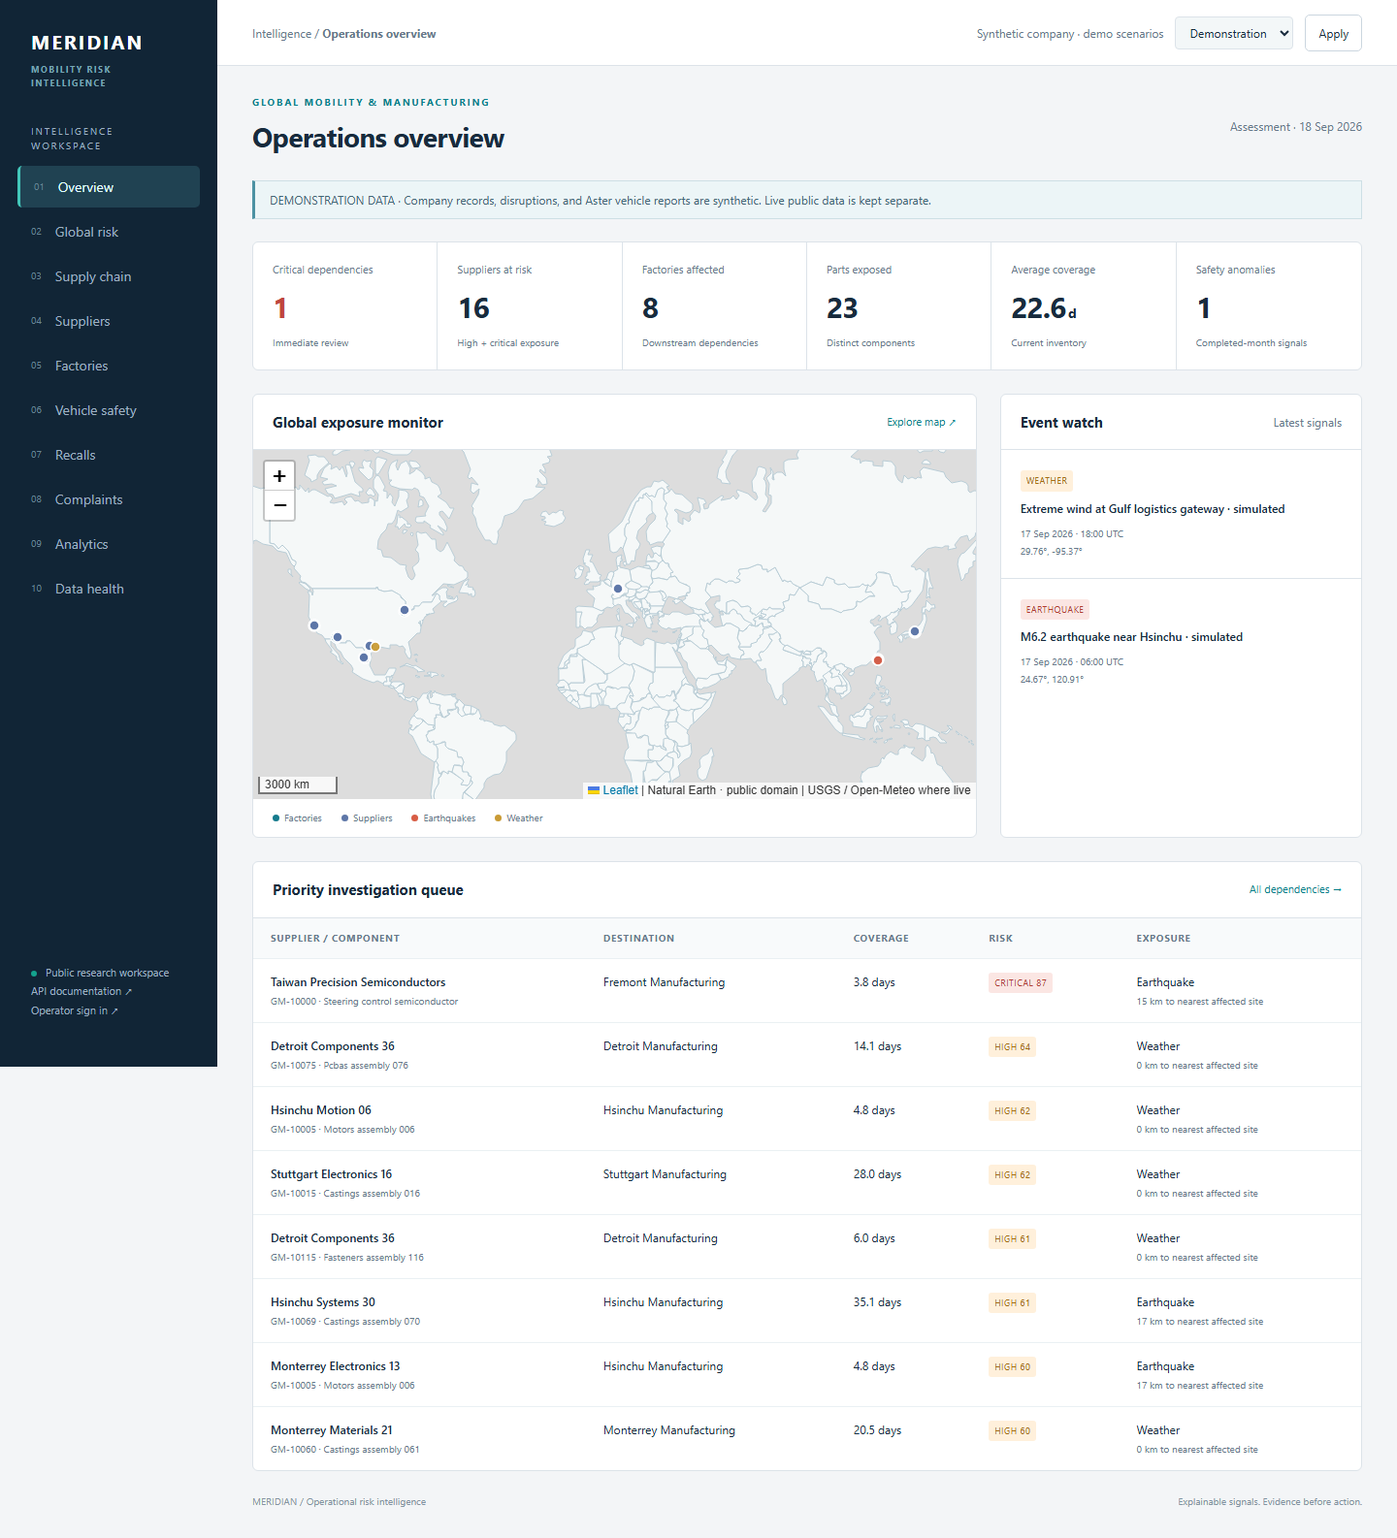
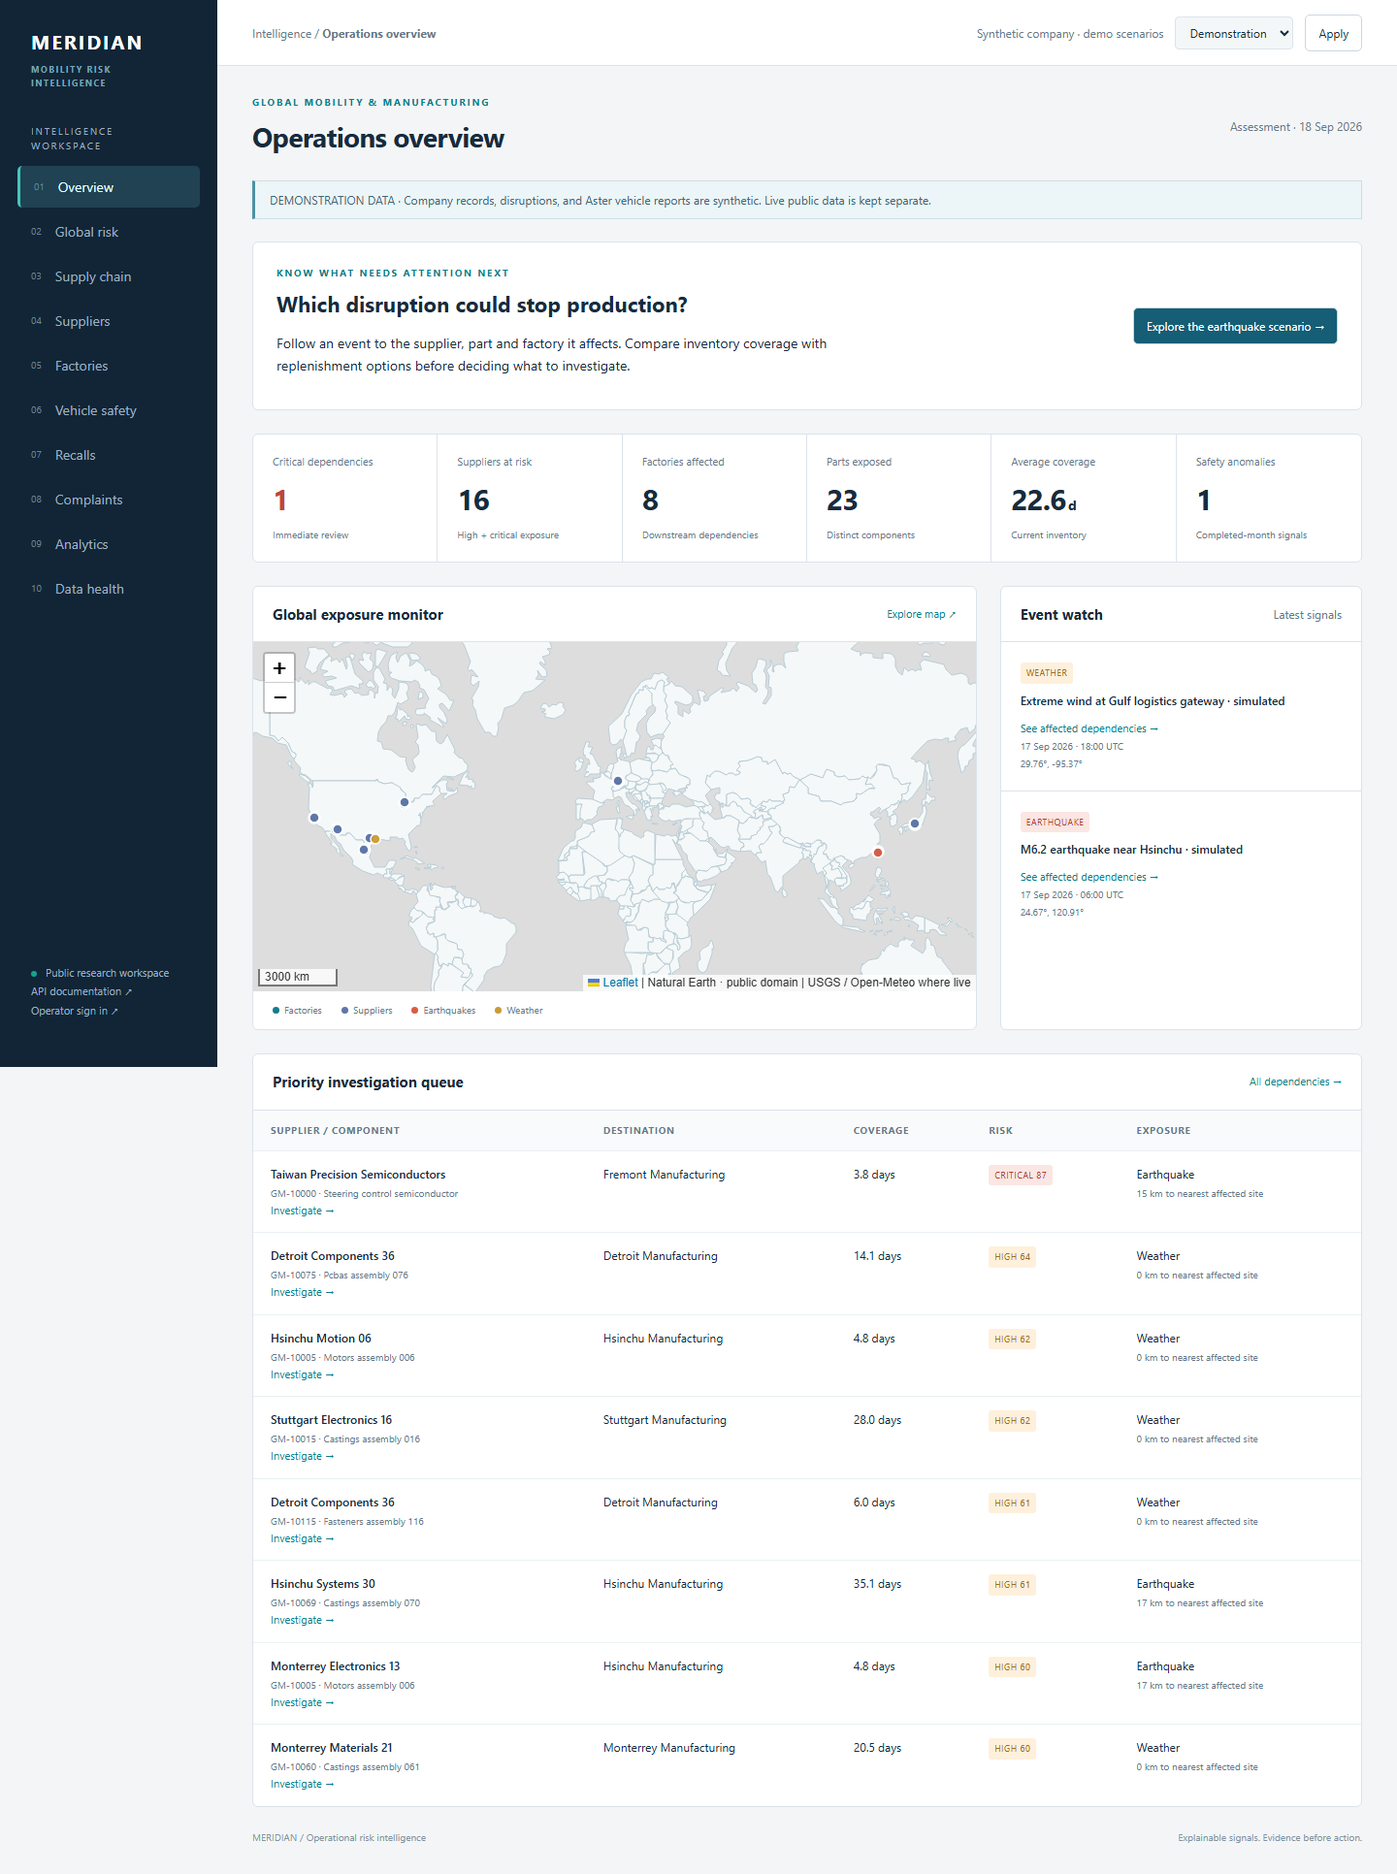
Guide risk investigations and prepare restart-safe hosted demo

diff --git a/templates/investigation.html b/templates/investigation.html
@@ -1,0 +1,111 @@
+{% extends "base.html" %}
+{% load ui %}
+{% block content %}
+    <nav class="journey" aria-label="Investigation steps">
+        <a href="#event">1. Event</a><a href="#dependency">2. Dependency</a><a href="#inventory">3. Inventory</a><a href="#options">4. Options</a>
+    </nav>
+    <section class="panel welcome">
+        <div><span class="badge {{ risk.classification }}">{{ risk.classification }} {% if risk.score != None %}{{ risk.score|floatformat:0 }}{% endif %}</span>
+            <h2>{{ risk.requirement.part.description }} at {{ risk.requirement.factory.name }}</h2>
+            <p>{{ risk.explanation }}</p>
+            <p class="subtle">Assessment: {{ risk.run.as_of|date:'d M Y H:i' }} UTC · Model {{ risk.run.model_version }}. This is a prioritization heuristic, not a damage probability. Historical assessments do not represent today's inventory.</p>
+        </div>
+    </section>
+    <div class="equal-col">
+        <section class="panel welcome" id="event">
+            <div>
+                <div class="eyebrow">1 / Evidence</div><h2>{% if risk.event %}{{ risk.event.title }}{% else %}No event linked{% endif %}</h2>
+                {% if risk.event %}<p>{{ risk.event.occurred_at|date:'d M Y H:i' }} UTC · {{ risk.event.kind|title }}</p>
+                <p class="subtle">Source: {{ risk.event.source }} · Record {{ risk.event.source_id }}. Source updated: {{ risk.event.source_updated_at|date:'d M Y H:i'|default:'Not supplied' }}.</p>
+                <p>{{ risk.distance_km|floatformat:1 }} km to the nearest affected site. Proximity indicates exposure, not confirmed damage.</p>
+                <a class="muted-link"
+                   href="/global-risk/?mode={{ mode }}&amp;event={{ risk.event_id }}">View event on map →</a>
+            {% else %}<p>This assessment reflects inventory and sourcing conditions without a linked environmental event.</p>{% endif %}
+        </div>
+    </section>
+    <section class="panel welcome" id="dependency">
+        <div>
+            <div class="eyebrow">2 / Production dependency</div>
+            <h2>{{ risk.requirement.part.number }}</h2>
+            <p><a class="muted-link"
+   href="/suppliers/{{ risk.source.site.supplier_id }}/?mode={{ mode }}">{{ risk.source.site.supplier.name }}</a> supplies {{ risk.requirement.part.description }} to <a class="muted-link"
+    href="/factories/{{ risk.requirement.factory_id }}/?mode={{ mode }}">{{ risk.requirement.factory.name }}</a>.</p>
+            <p>Current source lead time: <strong>{{ risk.source.lead_time_days }} days</strong>. Factory consumption: <strong>{{ risk.requirement.daily_usage|floatformat:0 }} units/day</strong>.</p>
+        </div>
+    </section>
+</div>
+<section class="panel welcome" id="inventory">
+    <div>
+        <div class="eyebrow">3 / Time to respond</div>
+        <h2>Inventory coverage and estimated stockout</h2>
+        {% if inventory %}<p>{{ inventory.quantity|floatformat:0 }} units on hand, recorded {{ inventory.date|date:'d M Y' }}. Safety stock: {{ inventory.safety_stock|floatformat:0 }} units.</p>{% else %}<p>Inventory is missing. Confirm stock before making a replenishment decision.</p>{% endif %}
+        <p>Coverage: <strong>{% if not risk.requirement.daily_usage %}No current consumption{% elif risk.days_of_supply != None %}{{ risk.days_of_supply|floatformat:1 }} days{% else %}Unknown{% endif %}</strong>. Estimated stockout: <strong>{{ risk.stockout_on|date:'d M Y'|default:'Not estimated' }}</strong>.</p>
+        <p class="subtle">Stockout estimates use consumption and eligible inbound shipments. Confirm actual stock, shipment arrival and supplier capacity before acting.</p>
+    </div>
+</section>
+<section class="panel" id="options">
+    <div class="panel-head">
+        <h2>4 / Compare sourcing options</h2>
+    </div>
+    <div class="table-scroll">
+        <table>
+            <thead>
+                <tr>
+                    <th>Alternative supplier</th>
+                    <th>Qualification</th>
+                    <th>Lead time</th>
+                    <th>Cost difference</th>
+                    <th>Decision check</th>
+                </tr>
+            </thead>
+            <tbody>
+                {% for candidate in alternatives %}
+                    <tr>
+                        <td><a class="entity-name"
+   href="/suppliers/{{ candidate.site.supplier_id }}/?mode={{ mode }}">{{ candidate.site.supplier.name }}</a></td>
+                        <td>{{ candidate.get_qualification_display }}</td>
+                        <td>
+                            {{ candidate.lead_time_days }} days
+                            <div class="subtle">{{ candidate.lead_delta }} days vs current</div>
+                        </td>
+                        <td>
+                            {{ candidate.cost_difference|floatformat:1 }} percentage points
+                            <div class="subtle">Both quotes relative to part base cost</div>
+                        </td>
+                        <td>{% if candidate.qualification != "approved" %}Complete qualification before use{% elif candidate.within_coverage %}Lead time fits coverage; confirm capacity{% else %}Coverage gap; confirm expedited delivery{% endif %}<div class="subtle">Available supplier inventory is unknown</div></td>
+                    </tr>{% empty %}<tr><td colspan="5" class="empty">No active alternative source is recorded. Ask sourcing to identify and qualify a candidate.</td></tr>{% endfor %}
+            </tbody>
+        </table>
+    </div>
+    <div class="welcome">
+        <div>
+            <h3>Recommended next checks</h3>
+            <ol class="next-checks">
+                <li>Confirm supplier operating status and the latest delivery commitment.</li>
+                <li>Reconcile factory stock and inbound shipments against the estimated stockout.</li>
+                <li>{% if has_approved %}Request capacity and delivery confirmation from approved alternatives.{% else %}Escalate the qualification gap to sourcing; pending sources are not ready for production use.{% endif %}</li>
+            </ol>
+            <p class="subtle">These are suggested checks. No purchase, reroute or supplier contact has been initiated.</p>
+        </div>
+    </div>
+</section>
+<section class="panel">
+    <div class="panel-head">
+        <h2>Why this score?</h2>
+    </div>
+    <div class="table-scroll">
+        <table>
+            <thead>
+                <tr>
+                    <th>Factor</th>
+                    <th>Normalized exposure</th>
+                    <th>Score contribution</th>
+                </tr>
+            </thead>
+            <tbody>
+                {% for name, factor in risk.factors.items %}<tr><td>{{ name|factor_label }}</td><td>{{ factor.normalized|floatformat:2 }}</td><td>{{ factor.contribution|floatformat:1 }}</td></tr>{% endfor %}
+            </tbody>
+        </table>
+    </div>
+</section>
+{% endblock %}

diff --git a/templates/dashboard.html b/templates/dashboard.html
@@ -1,5 +1,17 @@
 {% extends "base.html" %}
 {% block content %}
+    <section class="panel welcome">
+        <div>
+            <div class="eyebrow">Know what needs attention next</div>
+            <h2>Which disruption could stop production?</h2>
+            <p>Follow an event to the supplier, part and factory it affects. Compare inventory coverage with replenishment options before deciding what to investigate.</p>
+        </div>
+        {% if scenario %}
+            <a class="btn primary" href="/investigations/{{ scenario.pk }}/?mode={{ mode }}">{% if mode == 'demo' %}Explore the earthquake scenario{% else %}Investigate earthquake exposure{% endif %} &rarr;</a>
+        {% else %}
+            <a class="btn" href="/data-health/?mode={{ mode }}">Check data availability &rarr;</a>
+        {% endif %}
+    </section>
     <div class="kpis">
         <div class="kpi">
             <div class="kpi-label">Critical dependencies</div>
@@ -51,6 +63,7 @@
                 <div class="event-item">
                     <span class="badge {% if event.kind == 'earthquake' %}CRITICAL{% else %}HIGH{% endif %}">{{ event.kind|upper }}</span>
                     <div class="event-title">{{ event.title }}</div>
+                    <a class="muted-link" href="/global-risk/?mode={{ mode }}&amp;event={{ event.pk }}">See affected dependencies &rarr;</a>
                     <div class="event-meta">
                         {{ event.occurred_at|date:'d M Y · H:i' }} UTC
                         <br>

diff --git a/assets/app.css b/assets/app.css
@@ -672,3 +672,14 @@ select {
         padding: 7px
     }
 }
+
+.welcome { padding: 24px; display: flex; gap: 24px; align-items: center; justify-content: space-between; }
+.welcome h2 { font-size: 22px; margin: 8px 0 12px; }
+.welcome p { margin: 10px 0; max-width: 78ch; line-height: 1.65; }
+.primary { background: #155e75; color: white; white-space: normal; min-width: 180px; text-align: center; }
+.journey { display: flex; flex-wrap: wrap; gap: 12px; margin-bottom: 20px; }
+.journey a { padding: 10px 16px; border: 1px solid #cbd5e1; border-radius: 8px; background: white; color: #155e75; }
+.next-checks { list-style: decimal; padding-left: 24px; line-height: 1.9; }
+a:focus-visible, button:focus-visible { outline: 3px solid #0891b2; outline-offset: 4px; }
+[id] { scroll-margin-top: 20px; }
+@media (max-width: 760px) { .welcome { flex-direction: column; align-items: stretch; padding: 18px; } }

diff --git a/templates/partials/risks.html b/templates/partials/risks.html
@@ -17,6 +17,7 @@
                            href="/suppliers/{{ r.source.site.supplier_id }}/?mode={{ mode }}">
                         {{ r.source.site.supplier.name }}</a>
                         <div class="entity-sub">{{ r.requirement.part.number }} · {{ r.requirement.part.description }}</div>
+                        <a class="muted-link" href="/investigations/{{ r.pk }}/?mode={{ mode }}">Investigate &rarr;</a>
                     </td>
                     <td>
                         <a href="/factories/{{ r.requirement.factory_id }}/?mode={{ mode }}">{{ r.requirement.factory.name }}</a>

diff --git a/apps/core/views.py b/apps/core/views.py
@@ -45,9 +45,54 @@ def dashboard(request):
             "title": "Operations overview",
             "risks": context["assessments"][:8],
             "events": Event.objects.filter(mode=dataset(request)).order_by("-occurred_at")[:4],
+            "scenario": next(
+                (r for r in context["assessments"] if r.event and r.event.kind == "earthquake"),
+                None,
+            ),
         }
     )
     return render(request, "dashboard.html", context)
+
+
+@require_GET
+def investigation(request, pk):
+    mode = dataset(request)
+    risk = get_object_or_404(
+        Assessment.objects.select_related(
+            "run", "event", "source__site__supplier", "requirement__part", "requirement__factory"
+        ),
+        pk=pk,
+        run__mode=mode,
+    )
+    candidates = (
+        Sourcing.objects.filter(part=risk.requirement.part, site__mode=mode, active=True)
+        .exclude(site__supplier=risk.source.site.supplier)
+        .select_related("site__supplier")
+    )
+    alternatives = []
+    for candidate in candidates:
+        candidate.lead_delta = candidate.lead_time_days - risk.source.lead_time_days
+        candidate.cost_difference = candidate.cost_delta_pct - risk.source.cost_delta_pct
+        candidate.within_coverage = (
+            risk.days_of_supply is not None and candidate.lead_time_days <= risk.days_of_supply
+        )
+        alternatives.append(candidate)
+    inventory = (
+        risk.requirement.inventory.filter(date__lte=risk.run.as_of.date()).order_by("-date").first()
+    )
+    return render(
+        request,
+        "investigation.html",
+        {
+            "title": "From disruption to decision",
+            "active": "supply-chain",
+            "risk": risk,
+            "as_of": risk.run.as_of,
+            "inventory": inventory,
+            "alternatives": alternatives,
+            "has_approved": any(c.qualification == "approved" for c in alternatives),
+        },
+    )
 
 
 @require_GET

diff --git a/tests/test_guided_demo.py b/tests/test_guided_demo.py
@@ -1,0 +1,45 @@
+from unittest.mock import patch
+
+import pytest
+from django.core.management import call_command
+
+from apps.analytics.backends import DuckDBBackend
+from apps.risk.services import latest_assessments
+from config.database import database_config
+
+
+@pytest.mark.django_db
+def test_guided_investigation_and_isolation(client, demo):
+    risk = latest_assessments("demo").get(
+        source__site__supplier__code="S001", requirement__part__number="GM-10000"
+    )
+    response = client.get(f"/investigations/{risk.pk}/")
+    assert response.status_code == 200
+    assert b"Complete qualification before use" in response.content
+    assert b"Available supplier inventory is unknown" in response.content
+    assert risk.requirement.factory.name.encode() in response.content
+    assert client.get(f"/investigations/{risk.pk}/?mode=live").status_code == 404
+    assert client.post(f"/investigations/{risk.pk}/").status_code == 405
+    assert f"/investigations/{risk.pk}/".encode() in client.get("/").content
+
+
+def test_hosted_database_configuration():
+    config = database_config("postgresql://demo:p%40ss@db.example/test?sslmode=require")
+    assert config["PASSWORD"] == "p@ss"
+    assert config["OPTIONS"]["sslmode"] == "require"
+    assert config["CONN_MAX_AGE"] == 0
+    with pytest.raises(ValueError):
+        database_config("sqlite:///test.db")
+
+
+@pytest.mark.django_db(transaction=True)
+def test_bootstrap_recovers_missing_files(demo, data_root):
+    import shutil
+
+    call_command("bootstrap_demo")
+    shutil.rmtree(data_root / "publications")
+    with patch("apps.core.management.commands.bootstrap_demo.call_command") as seed:
+        call_command("bootstrap_demo")
+        seed.assert_not_called()
+    assert (data_root / "publications").exists()
+    assert DuckDBBackend().query("supplier_risk_summary", "demo").rows

diff --git a/config/settings.py b/config/settings.py
@@ -4,6 +4,8 @@ from pathlib import Path
 from django.core.exceptions import ImproperlyConfigured
 from dotenv import load_dotenv
 
+from config.database import database_config
+
 BASE_DIR = Path(__file__).resolve().parent.parent
 load_dotenv(BASE_DIR / ".env")
 DEBUG = os.getenv("DJANGO_DEBUG", "false").lower() == "true"
@@ -16,6 +18,9 @@ if not SECRET_KEY:
             "Set SECRET_KEY or explicitly enable DEBUG for local development"
         )
 ALLOWED_HOSTS = os.getenv("ALLOWED_HOSTS", "localhost,127.0.0.1,testserver").split(",")
+if os.getenv("RENDER_EXTERNAL_HOSTNAME"):
+    ALLOWED_HOSTS.append(os.environ["RENDER_EXTERNAL_HOSTNAME"])
+    SECURE_PROXY_SSL_HEADER = ("HTTP_X_FORWARDED_PROTO", "https")
 CSRF_TRUSTED_ORIGINS = [v for v in os.getenv("CSRF_TRUSTED_ORIGINS", "").split(",") if v]
 INSTALLED_APPS = [
     "django.contrib.admin",
@@ -74,6 +79,9 @@ DATABASES = {
         "OPTIONS": {"connect_timeout": 5},
     }
 }
+if os.getenv("DATABASE_URL"):
+    DATABASES["default"] = database_config(os.environ["DATABASE_URL"])
+
 AUTH_PASSWORD_VALIDATORS = [
     {"NAME": "django.contrib.auth.password_validation.MinimumLengthValidator"},
     {"NAME": "django.contrib.auth.password_validation.CommonPasswordValidator"},

diff --git a/scripts/browser_check.py b/scripts/browser_check.py
@@ -44,6 +44,17 @@ with sync_playwright() as p:
     page.goto(base, wait_until="networkidle")
     page.locator(".leaflet-interactive").first.wait_for()
     page.screenshot(path=str(output / "dashboard.png"), full_page=True)
+    page.get_by_role("link", name="Explore the earthquake scenario").click()
+    page.wait_for_load_state("networkidle")
+    assert page.get_by_role("heading", name="4 / Compare sourcing options").count() == 1
+    assert "Complete qualification before use" in page.locator("#options").inner_text()
+    page.screenshot(path=str(output / "investigation.png"), full_page=True)
+    investigation_url = page.url
+    page.set_viewport_size({"width": 390, "height": 844})
+    page.goto(investigation_url, wait_until="networkidle")
+    assert page.evaluate("document.documentElement.scrollWidth <= window.innerWidth")
+    page.set_viewport_size({"width": 1440, "height": 1100})
+    page.goto(base, wait_until="networkidle")
     page.locator("a.entity-name").first.click()
     page.wait_for_load_state("networkidle")
     assert page.locator("h2", has_text="Component dependencies").count() == 1

diff --git a/config/database.py b/config/database.py
@@ -1,0 +1,27 @@
+"""Parse hosted PostgreSQL URLs without logging credentials."""
+
+from urllib.parse import parse_qs, unquote, urlsplit
+
+
+def database_config(url):
+    parsed = urlsplit(url)
+    if (
+        parsed.scheme not in {"postgres", "postgresql"}
+        or not parsed.hostname
+        or not parsed.path.strip("/")
+    ):
+        raise ValueError("DATABASE_URL must identify a PostgreSQL host and database")
+    options = {"connect_timeout": 10, "sslmode": "require"}
+    for name, values in parse_qs(parsed.query).items():
+        if name in {"sslmode", "channel_binding"}:
+            options[name] = values[-1]
+    return {
+        "ENGINE": "django.db.backends.postgresql",
+        "NAME": unquote(parsed.path.lstrip("/")),
+        "USER": unquote(parsed.username or ""),
+        "PASSWORD": unquote(parsed.password or ""),
+        "HOST": parsed.hostname,
+        "PORT": parsed.port or 5432,
+        "CONN_MAX_AGE": 0,
+        "OPTIONS": options,
+    }

diff --git a/apps/core/management/commands/bootstrap_demo.py b/apps/core/management/commands/bootstrap_demo.py
@@ -1,0 +1,20 @@
+from django.conf import settings
+from django.core.management import call_command
+from django.core.management.base import BaseCommand, CommandError
+
+from apps.analytics.publication import publish
+from apps.ingestion.pipeline import job_lock
+from apps.supply_chain.models import Factory
+
+
+class Command(BaseCommand):
+    help = "Prepare a single-instance hosted demo; regenerate disposable analytics from PostgreSQL"
+
+    def handle(self, *args, **options):
+        if settings.ANALYTICS_BACKEND != "duckdb":
+            raise CommandError("Hosted demo bootstrap requires ANALYTICS_BACKEND=duckdb")
+        with job_lock("hosted-demo-bootstrap"):
+            if not Factory.objects.filter(mode="demo").exists():
+                call_command("generate_company_data")
+            publication = publish("demo")
+        self.stdout.write(self.style.SUCCESS(f"Demo publication ready: {publication.version}"))

diff --git a/apps/core/management/commands/generate_company_data.py b/apps/core/management/commands/generate_company_data.py
@@ -134,6 +134,18 @@ class Command(BaseCommand):
                     "is_primary": True,
                 },
             )
+            if i == 0:
+                Sourcing.objects.update_or_create(
+                    part=part,
+                    site=sites[7],
+                    defaults={
+                        "lead_time_days": 28,
+                        "qualification": "pending",
+                        "is_primary": False,
+                        "active": True,
+                        "cost_delta_pct": 12,
+                    },
+                )
             if i % 3 and i != 0:
                 Sourcing.objects.update_or_create(
                     part=part,

diff --git a/config/urls.py b/config/urls.py
@@ -19,6 +19,7 @@ for prefix, view, name in [
 
 urlpatterns = [
     path("", views.dashboard, name="dashboard"),
+    path("investigations/<int:pk>/", views.investigation, name="investigation"),
     path("admin/", admin.site.urls),
     path("analytics/", analytics),
     path("health/", views.health),
